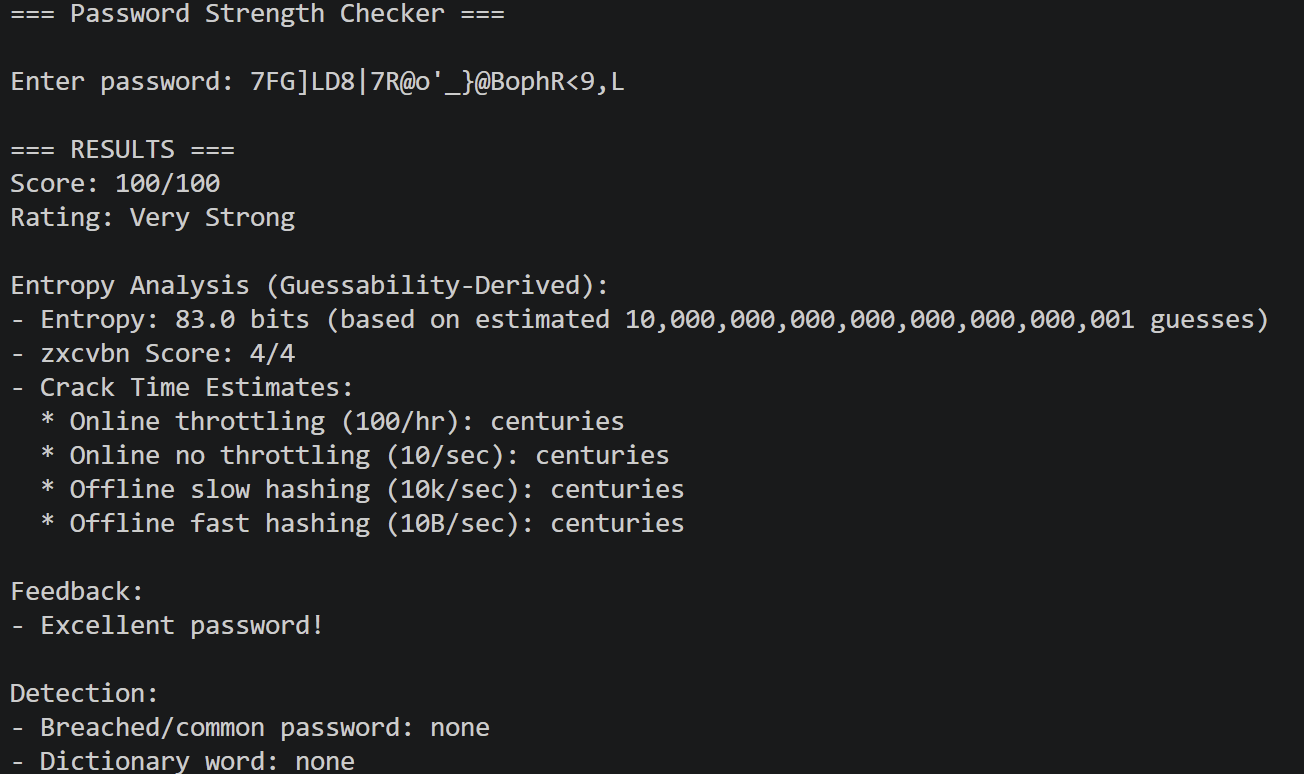
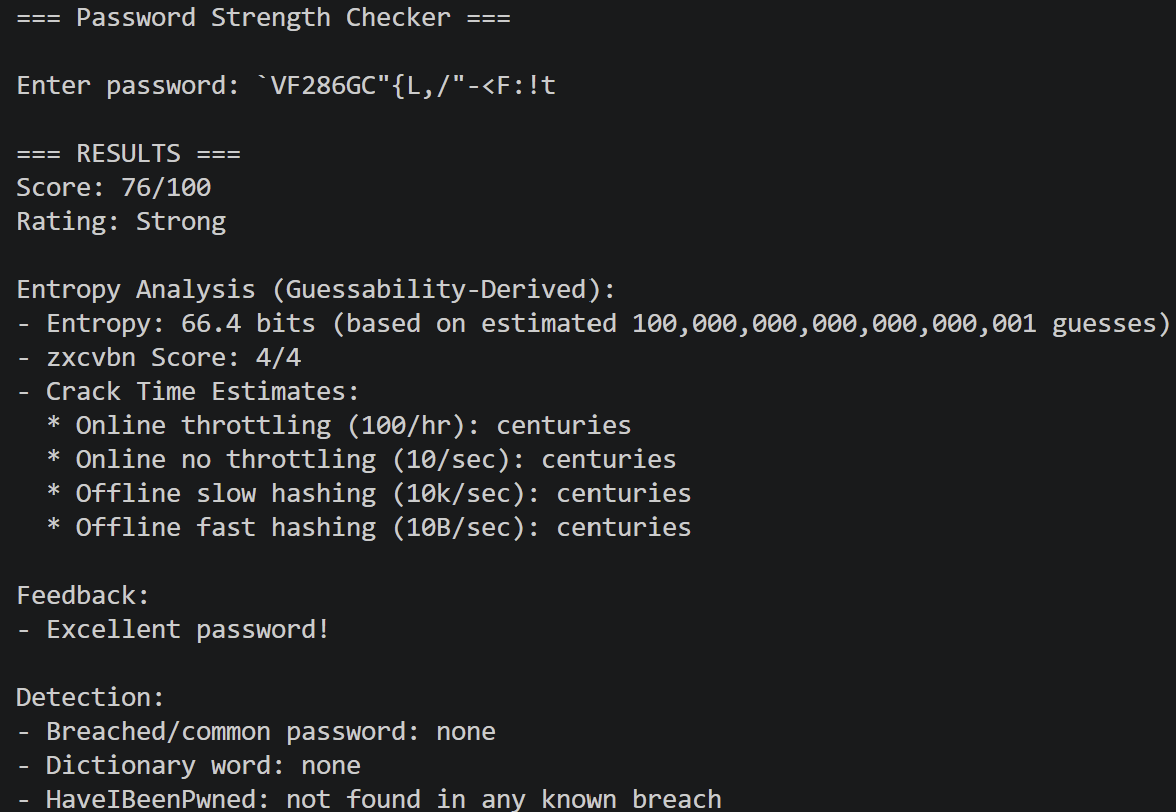
Version 1.4 - HaveIBeenPwned API Integration

diff --git a/README.md b/README.md
@@ -20,7 +20,9 @@ A Python CLI tool that scores password strength using zxcvbn pattern-aware entro
 - Flags missing uppercase letters, lowercase letters, numbers, and symbols as improvement guidance only (never affects the score)
 - Checks passwords against a breached/common password database (SecLists, top 1M) using O(1) set lookups
 - Catches dictionary words hidden inside passwords, including leetspeak variants like `P@ssw0rd`
-- Skips the breach check cleanly when the database file is absent (the NIST report marks that control not assessed)
+- Checks the password against the HaveIBeenPwned Pwned Passwords API using k-anonymity: only a 5-character SHA-1 prefix is sent, the plaintext and full hash never leave your machine; no API key required
+- Caps the score at 20 when a breach hit is found; treats an API failure as an explicit warning rather than a pass
+- Skips the local breach check cleanly when the database file is absent (the NIST report marks that control not assessed)
 - Uses the `zxcvbn` library for pattern-aware entropy scoring and realistic crack-time estimates
 - Runs a full NIST SP 800-63B Section 5.1.1.2 compliance check, with a control matrix of pass, fail, not assessed, and informational statuses and the exact clause cited for each failure
 - Gives specific feedback: which word matched, which list it came from, what to fix
@@ -33,6 +35,8 @@ Version 1.2 added `zxcvbn` for entropy analysis, which looks at guess difficulty
 
 Version 1.3 added a NIST compliance checker that runs the password through the real requirements in NIST SP 800-63B Section 5.1.1.2. Most password meters get this standard backwards, they still enforce composition rules and periodic rotation, both of which NIST explicitly tells you to stop doing. This checker follows the actual clauses instead: 8 character minimum, no composition rules, no rotation, list-based rejection, and Unicode/emoji allowed. It builds its report on top of the v1.1 breach/dictionary results and the v1.2 entropy score rather than redoing that work.
 
+Version 1.4 added HaveIBeenPwned API integration. After all local checks run, the password is hashed with SHA-1 and split: only the first 5 characters (prefix) go to the API, the remaining 35 (suffix) stay local. The API returns every hash suffix it knows that starts with that prefix, and the suffix is compared locally. This k-anonymity design means the plaintext password and full hash are never sent anywhere. If the password appears in a known breach the score is capped at 20 regardless of entropy, and if the API is unreachable the tool surfaces an explicit warning instead of silently passing.
+
 ## What I Learned
 
 Going in, I assumed a stronger password checker just meant stricter rules, more required symbols, longer minimums, more rejected patterns. Reading the actual NIST standard changed that completely. NIST 800-63B argues the opposite: composition rules and forced rotation push people toward predictable patterns (Password1!, Password2!) and don't actually stop attackers. What works better is checking against real breach data and letting people use long, simple passphrases. That was the most useful thing I took from this project, since "more rules" and "more secure" turned out not to be the same thing.
@@ -40,6 +44,8 @@ Going in, I assumed a stronger password checker just meant stricter rules, more 
 Building the dictionary detection also taught me that naive substring matching breaks fast. A password like `Passw0rd123` needed leetspeak normalization before matching would catch it, and even then I had to be careful not to flag legitimate substrings inside longer words as false positives.
 
 Translating a legal/technical standard into actual pass/fail code was its own skill. NIST documents aren't written to be turned into logic straight away, so figuring out which clauses were testable rules versus general guidance was most of the work in v1.3.
+
+The HIBP integration in v1.4 taught me how to consume a real security API safely. The k-anonymity model (send only 5 chars of the hash, compare the rest locally) is a clean solution to the privacy problem of "how do you check if a password is breached without sending the password". Handling the failure case correctly was the other lesson: an API timeout should never look the same as a clean result.
 
 ## Getting Started
 
@@ -85,6 +91,7 @@ PasswordStrengthChecker/
 ├── password_checker.py
 ├── scripts/
 │   ├── download_wordlists.py
+│   ├── hibp.py
 │   └── nist_checker.py
 ├── data/
 │   └── common-passwords.txt   (gitignored, created by the download script)

diff --git a/ARCHITECTURE.md b/ARCHITECTURE.md
@@ -53,6 +53,21 @@ The NIST SP 800-63B compliance engine (Version 1.3). Accepts a password plus the
 ### scripts/nist_checker._print_report()
 Renders the report as a control-matrix table to stdout, showing status per item and the cited clause plus detail for failed, not-assessed, and informational items.
 
+### scripts/hibp.HIBPError
+A typed exception raised by `_query_range()` whenever the API call fails for any reason (network error, timeout, non-200 HTTP status). Keeping it typed lets `hibp_check()` catch it precisely without swallowing unrelated exceptions.
+
+### scripts/hibp._hash_password()
+Hashes the password with SHA-1 and splits the uppercase hex digest at position 5, returning `(prefix, suffix)`. Only the 5-character prefix ever leaves this process. The 35-character suffix stays local and is compared client-side against the API response. This is the k-anonymity model used by the HIBP Pwned Passwords API.
+
+### scripts/hibp._query_range()
+Calls `GET https://api.pwnedpasswords.com/range/{prefix}` with a 10-second timeout via stdlib `urllib`. Returns the raw response text (one `SUFFIX:COUNT` pair per line). Raises `HIBPError` on any failure so the caller can never silently treat an outage as "password is safe".
+
+### scripts/hibp._parse_response()
+Scans the returned blob line by line, looking for a case-insensitive match against the local suffix. Returns the integer breach count if found, or 0 if the suffix is absent (password not seen in any known breach). Testable offline with a hardcoded fake response.
+
+### scripts/hibp.hibp_check()
+Public entry point. Wires `_hash_password` -> `_query_range` -> `_parse_response` and returns a clean result dict: `{"checked": True, "pwned": bool, "count": int, "error": None}` on success, or `{"checked": False, "pwned": False, "count": 0, "error": str}` on failure. Callers must inspect `checked` before treating `pwned: False` as confirmation of safety.
+
 ## Design Decisions
 
 - **Compliance as a control matrix** (Version 1.3).
@@ -120,7 +135,7 @@ Renders the report as a control-matrix table to stdout, showing status per item 
 ## Known Limitations / Future Work
 
 - Breach check is exact-match only; a full RockYou-scale list will slow first-load slightly but lookups stay O(1)
-- No HaveIBeenPwned API integration (planned for next version)
+- HIBP check adds ~1-2s network latency per run; no caching between runs
 - Dictionary substring matching can report incidental matches (for example `sword` inside `password`)
 - No password generation suggestions
 - No GUI, CLI only

diff --git a/CHANGELOG.md b/CHANGELOG.md
@@ -3,12 +3,28 @@
 ## [Unreleased]
 
 ### Planned
-- HaveIBeenPwned API integration for breach checking
 - Offline Pwned Passwords range matching
 - Cryptographically secure password generator
 - Diceware-style passphrase generator
 - Encrypted local vault
 - Web/App UI version
+
+## [2026-08-27] Version 1.4 - HaveIBeenPwned API Integration
+
+### Added
+- New `scripts/hibp.py` module implementing the HIBP Pwned Passwords k-anonymity range lookup
+- `_hash_password()` hashes the password with SHA-1 and splits it into a 5-character prefix and 35-character suffix; only the prefix is ever sent over the network
+- `_query_range()` calls `GET https://api.pwnedpasswords.com/range/{prefix}` using stdlib `urllib`; raises `HIBPError` on any network error, timeout, or non-200 response so callers can never silently treat an outage as safe
+- `_parse_response()` scans the returned `SUFFIX:COUNT` blob locally and returns the breach count for the password's suffix, or 0 if not found
+- `hibp_check()` wires the three private functions into a single public call returning `{checked, pwned, count, error}`; the full hash and plaintext password never leave the process (k-anonymity model, documented explicitly)
+- `match_info["hibp"]` field added to the `score_password()` return value
+- Score is capped at 20 when a password is found in a known breach
+- Feedback warns when the check fails, with explicit instruction not to treat a failure as confirmation the password is safe
+- HIBP result printed in the Detection section of the CLI output
+
+### Changed
+- `score_password()` now calls `hibp_check()` after all local checks
+- `match_info` schema extended with the `hibp` key
 
 ## [2026-08-22] Version 1.3.1 - The Restructuring
 
